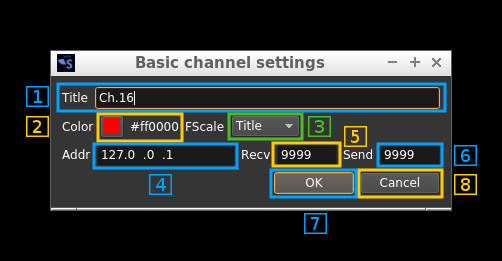
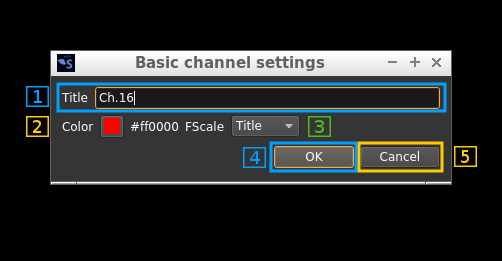
Updated channel settings documentation

Changed region(s): [[0.0896, 0.4291, 0.9562, 0.9195]]

diff --git a/sdrgui/readme.md b/sdrgui/readme.md
@@ -529,92 +529,11 @@ When the mouse is over the channel window or over the central line in the spectr
   - AdSnd: UDP address and send port
   - AdRcv: UDP address and receive port
   
-<h4>6.4,5,6: UDP address (4) receive port (5) and send port (6)</h4>
-
-Some channels can exchange data over UDP. Depending on the channel the data is the following:
-
-<table>
-  <tr>
-    <th>Channel</th>
-    <th>Data sent</th>
-    <th>Type</th>
-    <th>Data received</th>
-    <th>Type</th>
-    <th>Address</th>
-  </tr>
-  <tr>
-    <td>AM demod</td>
-    <td>Audio</td>
-    <td>Mono</td>
-    <td>N/A</td>
-    <td>N/A</td>
-    <td>Remote</td>
-  </tr>
-  <tr>
-    <td>BFM demod</td>
-    <td>Audio</td>
-    <td>Stereo</td>
-    <td>N/A</td>
-    <td>N/A</td>
-    <td>Remote</td>
-  </tr>  
-  <tr>
-    <td>DSD demod</td>
-    <td>Audio</td>
-    <td>Stereo</td>
-    <td>N/A</td>
-    <td>N/A</td>
-    <td>Remote</td>
-  </tr>  
-  <tr>
-    <td>NFM demod</td>
-    <td>Audio</td>
-    <td>Mono</td>
-    <td>N/A</td>
-    <td>N/A</td>
-    <td>Remote</td>
-  </tr>
-  <tr>
-    <td>SSB demod</td>
-    <td>Audio</td>
-    <td>Mono</td>
-    <td>N/A</td>
-    <td>N/A</td>
-    <td>Remote</td>
-  </tr>
-  <tr>
-    <td>WFM demod</td>
-    <td>Audio</td>
-    <td>Mono</td>
-    <td>N/A</td>
-    <td>N/A</td>
-    <td>Remote</td>
-  </tr>
-  <tr>
-    <td>UDP source</td>
-    <td>Audio, I/Q</td>
-    <td>Mono, Stereo</td>
-    <td>Audio</td>
-    <td>Mono</td>
-    <td>Remote</td>
-  </tr>
-  <tr>
-    <td>UDP sink</td>
-    <td>N/A</td>
-    <td>N/A</td>
-    <td>Audio, I/Q</td>
-    <td>Mono, Stereo</td>
-    <td>Local</td>
-  </tr>
-</table>
-  
-Data type is S16LE 1 channel (Mono) or 2 channels (Stereo or I/Q)
-
-<h4>6.7: Validate and exit dialog</h4>
+<h4>6.4: Validate and exit dialog</h4>
 
 Validates the data (saves it in the channel marker object) and exits the dialog
 
-<h4>6.8: Cancel changes and exit dialog</h4>
+<h4>6.5: Cancel changes and exit dialog</h4>
 
 Do not make any changes and exit dialog
 
